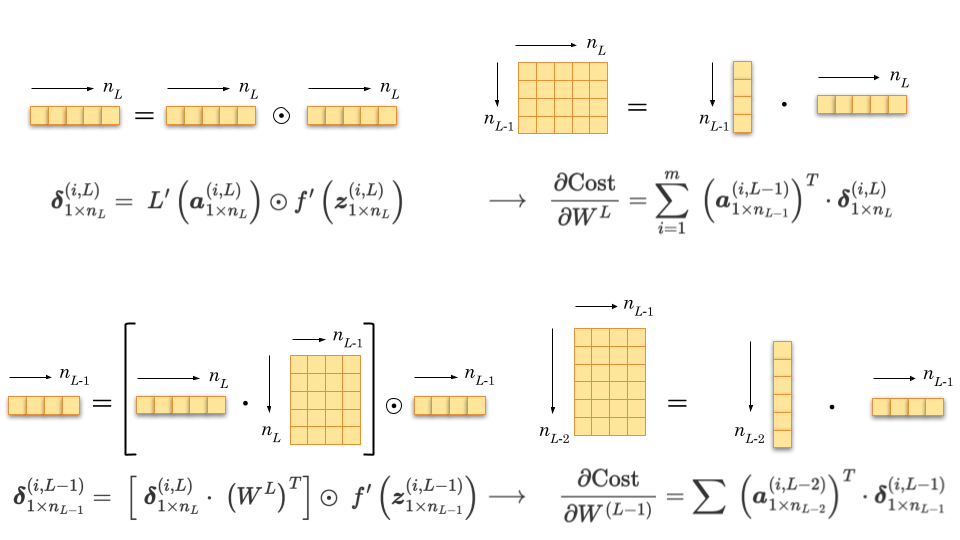
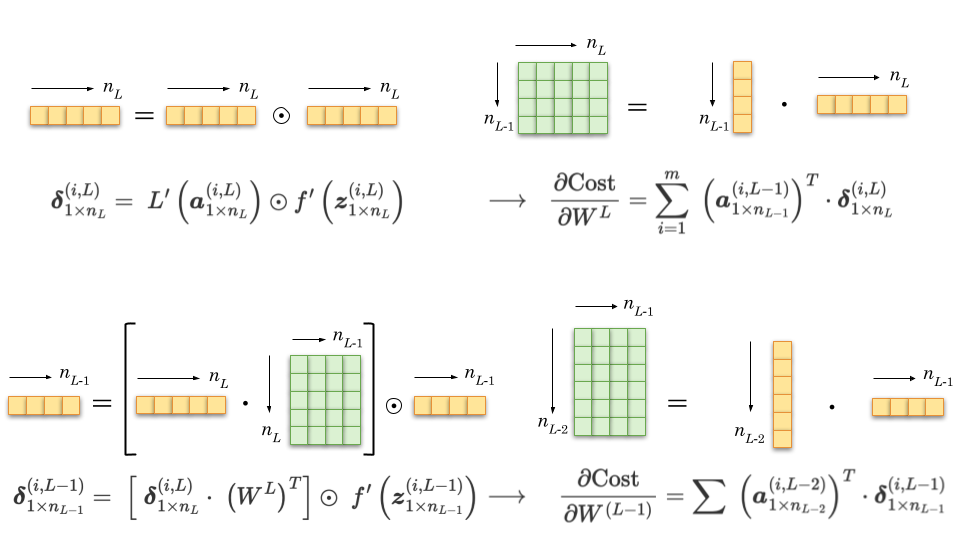
NN backprop full equations and tetris schematics 2

Changed region(s): [[0.5625, 0.5926, 0.6875, 0.8296], [0.5312, 0.0889, 0.6562, 0.2667], [0.2812, 0.6519, 0.375, 0.8296]]

diff --git a/week2/NN2_backprop.md b/week2/NN2_backprop.md
@@ -475,7 +475,7 @@ We can rewrite the equations {eq}`deltasandpartialcostseq` using all the informa
 Dimension-wise, the partial derivatives of the cost should be of the same size of the associated weight matrix (as it will be substracted from the weight matrix at the step where weights are updated). So it makes sense in the end to have a matrix created: the product of a column vector (recall the derivative turns row into column vectors) times a row vector. 
 
 
-To make things more visual, see below schematics illustrating the shape of each term (the author of this course has a long-time trouble with index notations and prefers a very visual, Tetris-like representation):
+To make things more visual, see below schematics illustrating the shape of each term (the author of this course has a long-time trouble with index notations and prefers a very visual, Tetris-like representation). The errors, unactivated ($z$) activated nodes are in yellow. They receive a different value per data samples. The weight matrices are in green: 
 ```{figure} ../images/lec07_3_tetrisbackprop.png
 ---
   name: lec07_3_tetrisbackprop
